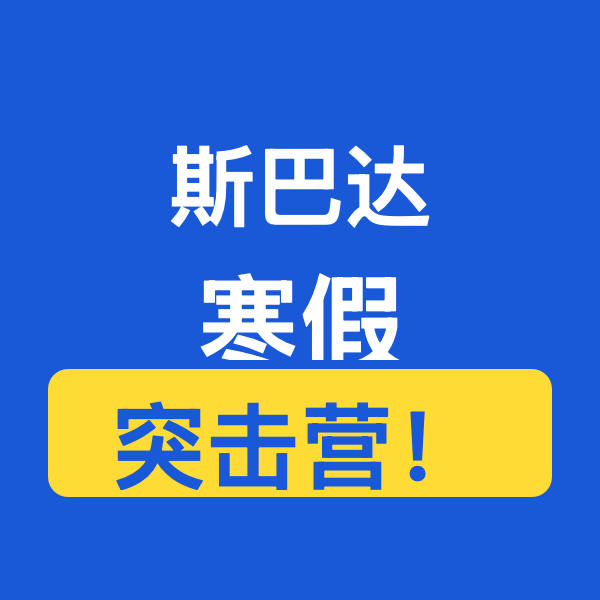
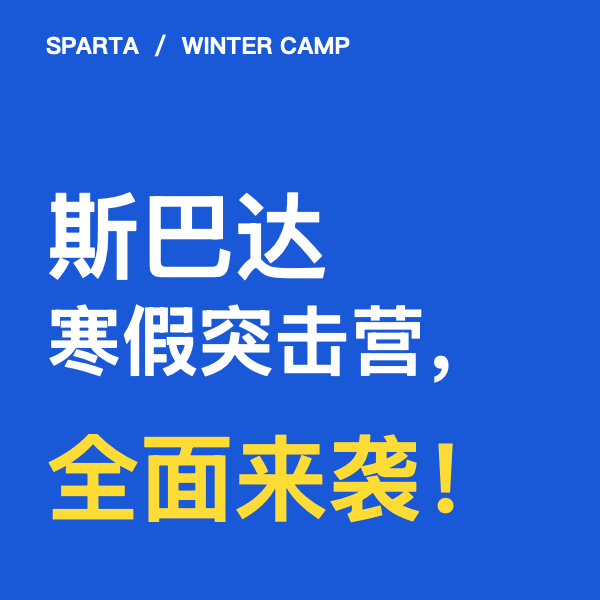
Restyle share cover to match camp poster

Changed region(s): [[0.06, 0.24, 0.93, 0.87], [0.3, 0.06, 0.6, 0.09], [0.06, 0.06, 0.27, 0.09]]

diff --git a/index.html b/index.html
@@ -4,15 +4,15 @@
 <meta property="og:title" content="斯巴达寒假突击营！">
 <meta property="og:description" content="听力口语突击营 · 口语写作雅思营，8天封闭集训！">
 <meta property="og:url" content="https://baoshu-tech.github.io/sparta-winter-2027/">
-<meta property="og:image" content="https://baoshu-tech.github.io/sparta-winter-2027/images/share-cover.png">
+<meta property="og:image" content="https://baoshu-tech.github.io/sparta-winter-2027/images/share-cover-v2.png">
 <meta property="og:image:width" content="600">
 <meta property="og:image:height" content="600">
 <meta property="og:image:alt" content="斯巴达寒假突击营！">
 <meta name="twitter:card" content="summary">
 <meta name="twitter:title" content="斯巴达寒假突击营！">
-<meta name="twitter:image" content="https://baoshu-tech.github.io/sparta-winter-2027/images/share-cover.png">
-<link rel="image_src" href="https://baoshu-tech.github.io/sparta-winter-2027/images/share-cover.png">
-<link rel="apple-touch-icon" href="https://baoshu-tech.github.io/sparta-winter-2027/images/share-cover.png">
+<meta name="twitter:image" content="https://baoshu-tech.github.io/sparta-winter-2027/images/share-cover-v2.png">
+<link rel="image_src" href="https://baoshu-tech.github.io/sparta-winter-2027/images/share-cover-v2.png">
+<link rel="apple-touch-icon" href="https://baoshu-tech.github.io/sparta-winter-2027/images/share-cover-v2.png">
 <style>
 :root{--blue:#1958d7;--navy:#102e78;--yellow:#ffdb36;--orange:#ff792d;--gap:14px}*{box-sizing:border-box}body{margin:0;background:#edf2fa;font-family:Inter,"PingFang SC","Microsoft YaHei",sans-serif;color:#10285a}button{font:inherit;cursor:pointer}header{background:white;position:sticky;top:0;z-index:20;border-bottom:1px solid #e1e8f3;box-shadow:0 3px 18px #183c7610}.top{max-width:1180px;padding:14px 22px;margin:auto;display:flex;justify-content:space-between;align-items:center;gap:20px}.logo{display:flex;align-items:center;gap:12px}.logoicon{background:#1958d7;color:white;padding:10px 12px;border-radius:10px;box-shadow:4px 4px #ffdc3b;font-weight:1000;font-size:20px;transform:rotate(-3deg)}.logo strong{font-size:17px;display:block}.logo small{color:#8494ac;font-size:10px}.nav{display:flex;gap:6px;flex-wrap:wrap}.nav button{border:0;background:transparent;border-radius:9px;color:#637697;font-size:12px;font-weight:800;padding:11px 15px}.nav button.active{background:#1958d7;color:white}.wrap{max-width:1180px;margin:auto;padding:25px 22px 75px}.page{display:none}.page.active{display:block}.grid{display:grid;grid-template-columns:repeat(12,minmax(0,1fr));gap:var(--gap)}.card{position:relative;overflow:hidden;border-radius:22px;background:white;border:1px solid #e2e9f3;padding:27px;min-width:0}.s12{grid-column:span 12}.s8{grid-column:span 8}.s7{grid-column:span 7}.s6{grid-column:span 6}.s5{grid-column:span 5}.s4{grid-column:span 4}.s3{grid-column:span 3}.blue{background:#1958d7;color:white;border-color:#1958d7}.navy{background:#102e78;color:white;border-color:#102e78}.yellow{background:#ffdb36;color:#112b69;border-color:#ffdb36}.orange{background:#ff792d;color:white;border-color:#ff792d}.ice{background:#e3efff;border-color:#d3e4fb}.cream{background:#fff0e4;border-color:#ffe3ce}.tag{display:block;font-weight:900;font-size:10px;letter-spacing:2px;opacity:.7;margin-bottom:13px}.sticker{display:inline-block;background:#ffdb36;color:#14366e;transform:rotate(-2deg);border-radius:7px;padding:8px 12px;font-size:11px;font-weight:1000}.card h1{font-size:clamp(34px,4.4vw,60px);line-height:1.19;letter-spacing:-2px;margin:22px 0 13px;font-weight:1000}.card h2{font-size:clamp(24px,3vw,36px);line-height:1.27;letter-spacing:-1px;margin:8px 0 13px;font-weight:1000}.card h3{font-size:19px;line-height:1.4;margin:9px 0;font-weight:950}.card p{font-size:13px;line-height:1.92;margin:10px 0}.muted{opacity:.77}.section{grid-column:span 12;padding:42px 6px 9px}.section .tag{color:#1756b9}.section h2{font-size:clamp(25px,3vw,37px);margin:4px 0 8px;letter-spacing:-1px}.section p{max-width:850px;color:#607699;font-size:13px;line-height:1.9;margin:0}.btn{border:0;border-radius:10px;background:#ffdd3b;color:#103370;font-size:12px;padding:13px 16px;font-weight:900;margin-top:15px;position:relative;z-index:3}.btn.white{background:white;color:#1957ca}.number{font-size:clamp(38px,5.5vw,70px);font-weight:1000;line-height:1.1;letter-spacing:-2px;margin:15px 0}.chip{display:inline-block;padding:8px 10px;border:1px solid #ffffff64;background:#ffffff26;border-radius:8px;font-size:11px;font-weight:800;margin:6px 5px 0 0}.photo{object-fit:cover;width:100%;height:100%;display:block}.photo-tile{padding:0!important}.photo-tile img{width:100%;height:100%;object-fit:cover;min-height:230px}.photolabel{position:absolute;left:18px;bottom:18px;background:#0e2f7cdd;color:white;border-radius:9px;font-weight:850;font-size:12px;padding:10px 13px;backdrop-filter:blur(5px)}.hero{min-height:460px}.hero .copy{width:65%;position:relative;z-index:2}.hero .cutout{position:absolute;width:47%;height:100%;right:-20px;bottom:0;object-fit:cover;object-position:center 20%;opacity:.95;mix-blend-mode:normal;mask-image:linear-gradient(to right,transparent,black 20%);border-radius:0 22px 22px 0}.introimg{height:130px;width:100%;object-fit:contain;object-position:center;margin:5px 0 10px}.quote{border-left:4px solid #ffdc35;padding-left:15px;font-size:18px!important;font-weight:900}.bullet{display:flex;gap:10px;margin:15px 0;font-size:13px;line-height:1.8}.bullet b{display:inline-block;flex-shrink:0;background:#ffdb36;color:#153875;border-radius:6px;padding:1px 7px;font-size:11px;height:max-content}.split{display:grid;grid-template-columns:repeat(2,1fr);gap:9px;margin-top:16px}.split>div{border:1px solid #ffffff45;background:#ffffff24;border-radius:11px;padding:15px}.split strong{font-size:14px;display:block}.split span{font-size:11px;opacity:.82}.numsmall{font-size:36px;font-weight:1000;letter-spacing:-1px}.card .art{max-height:260px;max-width:100%;object-fit:contain;display:block;margin:auto}.duo{display:grid;grid-template-columns:repeat(2,1fr);gap:12px}.duo img{width:100%;border-radius:12px;aspect-ratio:1.45;object-fit:cover}.schedule{display:grid;grid-template-columns:115px 1fr;gap:0;font-size:12px}.schedule b,.schedule span{padding:12px 6px;border-bottom:1px solid #dfe7f3}.schedule b{color:#1a59be}.schedule span{line-height:1.7}.placeholder{border:2px dashed #b9cbe5;background:#eff5fc;border-radius:14px;min-height:160px;display:flex;flex-direction:column;align-items:center;justify-content:center;text-align:center;padding:18px;color:#6b83a7;font-size:12px;gap:10px}.placeholder strong{font-size:15px;color:#446aa5}.tilesvideo{display:grid;grid-template-columns:repeat(3,1fr);gap:12px}.tilesvideo .card{padding:14px}.tilesvideo .placeholder{min-height:180px}.next{color:#2056b8;background:#f8fbff;border:1px solid #d4e3f9;border-radius:9px;padding:8px 14px;font-size:12px;font-weight:850}.note{font-size:11px;color:#7187a8;line-height:1.8;margin-top:10px}.faqs details{background:white;margin-bottom:9px;border:1px solid #e0e9f5;padding:15px 18px;border-radius:12px}.faqs summary{font-size:13px;font-weight:900;cursor:pointer}.faqs p{color:#637997;font-size:12px}.footer{background:#102e78;color:#fff;padding:25px 6%;font-size:12px;display:flex;justify-content:space-between;gap:15px;flex-wrap:wrap}.flag{background:#ffde3b;color:#122f76;font-size:10px;font-weight:900;border-radius:6px;padding:6px 9px;display:inline-block}.hero-junior{background:#1958d7;color:white}.hero-ielts{background:#112e77;color:white}.headerphoto{height:280px;object-fit:cover;width:100%;border-radius:15px;margin-top:9px}#home .hero .copy{width:70%}#home .hero .cutout{width:41%;object-fit:contain;object-position:center bottom;mask-image:linear-gradient(to right,transparent,black 17%)}
 @media(max-width:750px){.top{align-items:flex-start;flex-direction:column;padding:13px}.nav button{padding:8px 9px;font-size:11px}.wrap{padding:12px 10px 35px}.grid{gap:9px}.card{border-radius:16px;padding:18px}.s8,.s7,.s6,.s5{grid-column:span 12}.s4,.s3{grid-column:span 6}.hero{min-height:420px}.hero .copy,#home .hero .copy{width:100%}.hero .cutout,#home .hero .cutout{width:45%;height:44%;right:0;bottom:0;mask-image:linear-gradient(to right,transparent,black 27%);opacity:.85}.hero h1{font-size:34px;max-width:95%}.hero p{max-width:88%;font-size:12px}.tilesvideo{grid-template-columns:1fr}.section{padding-top:25px}.split{grid-template-columns:1fr}.card h3{font-size:16px}.number{font-size:38px}.photo-tile img{min-height:180px}}
